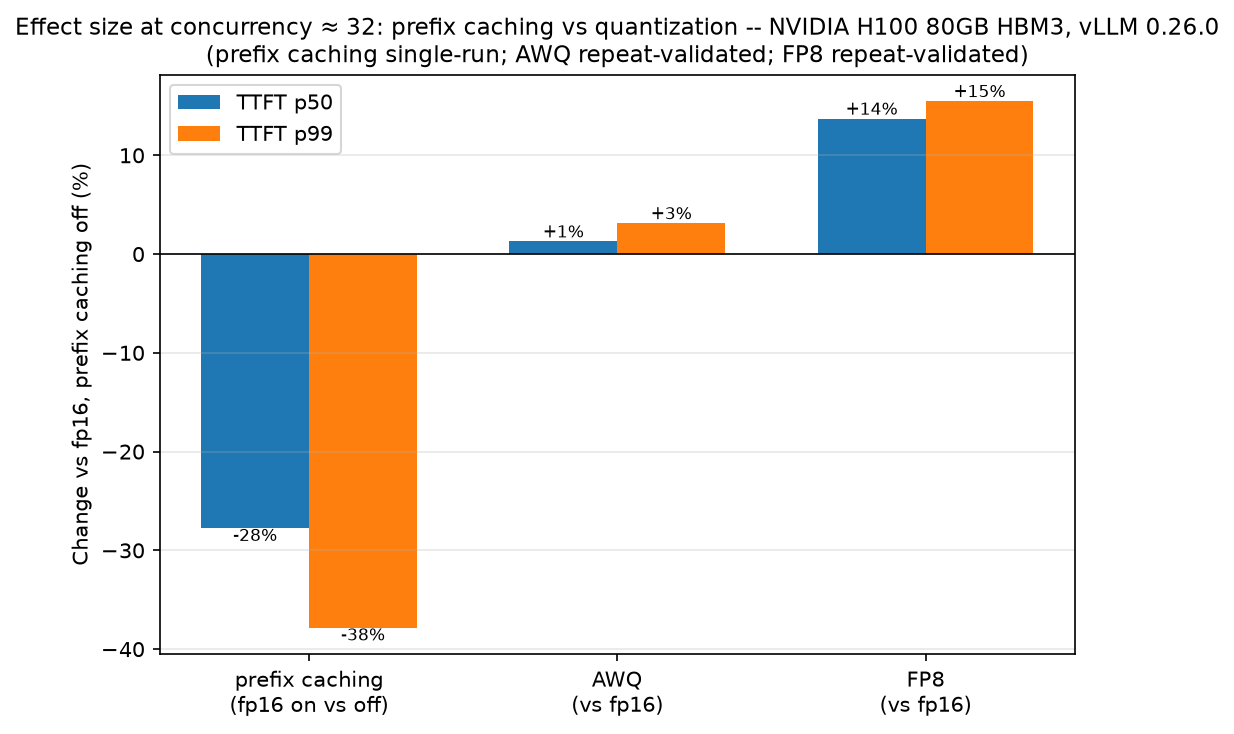
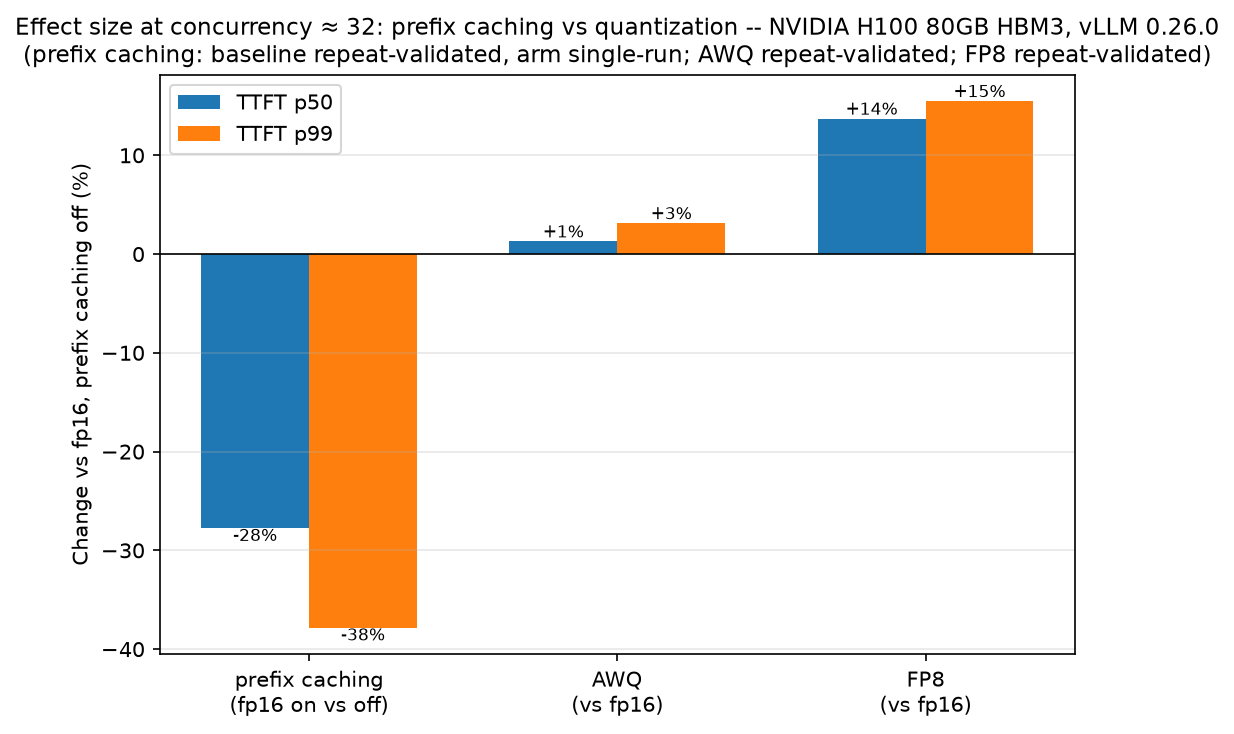
Cleanup: precise plot subtitles, contributor note, drop root .gitkeep (#39)
* fix: classify verify_abort.py's trial dumps in analyze.py

results/h200/verify_abort_trial{0..4}.json are tracked results but
matched no pattern in assert_full_classification(), so make
analyze-h200 raised on the file-classification safety net the Phase 7
audit added. They're a diagnostic (abort-to-slot-free latency, cited
directly in docs/decisions.md), not a load-sweep cell -- add them to
INTENTIONALLY_UNCLASSIFIED_PATTERNS with that reason, same as the
existing calibration/perplexity entries.

* fix: state prefix-caching plot subtitles precisely, regenerate

Both prefix_caching_effect.png and effect_size_comparison.png
subtitles overstated "single-run, not yet repeat-validated" -- the
README's own repeat-validation paragraph says the prefix-caching-off
arm is repeat-validated at c1 and c32 (5 seeds); only the on arm (and
the off arm's c8 cell) is single-run. Read validation status off
cells[...]["runs"] instead of a hardcoded string, so this can't drift
out of sync with which cells actually got repeat runs again. Applies
to both the H100 and H200 versions of both plots -- same script, same
bug in both.

* docs: note the second contributor account in the README

The GitHub contributor list shows kishuxz and kishore-crux -- both
mine, the latter from squash-merge commits whose author GitHub won't
let me correct after the fact (docs/decisions.md, "Squash-merge
authorship"). A reader shouldn't have to go find that explanation to
[…]

Changed region(s): [[0.0, 0.0599, 0.9854, 0.0899]]

diff --git a/scripts/analyze.py b/scripts/analyze.py
@@ -60,6 +60,10 @@ CALIBRATION_RE = re.compile(r"^calibration_[A-Za-z0-9_]+\.json$")
 # by this script -- see scripts/perplexity.py / perplexity_multislice.py
 # and the README's Findings section for those numbers.
 PERPLEXITY_RE = re.compile(r"^perplexity_[A-Za-z0-9_]+\.json$")
+# scripts/verify_abort.py's own trial dumps: confirms abort-to-slot-free
+# latency, not a load-sweep cell -- see docs/decisions.md, "Re-verified
+# on H200."
+VERIFY_ABORT_RE = re.compile(r"^verify_abort_trial\d+\.json$")
 
 # filename arm token -> (canonical arm, prefix caching on/off). AWQ and FP8
 # only ever run with prefix caching off (docs/decisions.md: "prefix caching
@@ -187,6 +191,10 @@ INTENTIONALLY_UNCLASSIFIED_PATTERNS = [
                      "(forced-decoding on a wikitext slice, not a load-sweep "
                      "cell), read directly, not built into this script's "
                      "tables or plots"),
+    (VERIFY_ABORT_RE, "scripts/verify_abort.py's own abort-to-slot-free "
+                       "latency trial, not a load-sweep cell -- cited "
+                       "directly in docs/decisions.md, not built into this "
+                       "script's tables or plots"),
 ]
 
 
@@ -448,6 +456,31 @@ def plot_ttft_vs_arrival_rate(cells, out_path, env_label):
     plt.close(fig)
 
 
+def _validated_concs(cells, arm, prefix_caching, mode="open", barge_in=0.0):
+    """Concurrencies where this (arm, prefix_caching) cell is
+    repeat-validated (cell["runs"] > 1, from repeat_cell() -- 5 seeds),
+    read directly off the cells dict rather than hardcoded, so a plot
+    subtitle naming a validation status can't silently drift out of sync
+    with which concurrencies actually got repeat runs."""
+    return [c for c in CONC_ORDER
+            if (cells.get((arm, prefix_caching, mode, c, barge_in)) or {}).get("runs", 0) > 1]
+
+
+def _prefix_validation_note(cells):
+    off_repeat = _validated_concs(cells, "fp16", False)
+    on_repeat = _validated_concs(cells, "fp16", True)
+
+    def fmt(arm_label, repeat_concs):
+        if not repeat_concs:
+            return f"{arm_label} single-run at every concurrency shown"
+        if len(repeat_concs) == len(CONC_ORDER):
+            return f"{arm_label} repeat-validated at every concurrency shown"
+        concs = "/".join(f"c≈{c}" for c in repeat_concs)
+        return f"{arm_label} repeat-validated at {concs}, single-run elsewhere"
+
+    return f"{fmt('off-arm', off_repeat)}; {fmt('on-arm', on_repeat)}"
+
+
 def plot_prefix_caching_effect(cells, out_path, env_label):
     fig, axes = plt.subplots(1, 2, figsize=(10, 4.5))
     for ax, (label, key) in zip(axes, [("TTFT p50 (ms)", "ttft_p50_ms"), ("TTFT p99 (ms)", "ttft_p99_ms")]):
@@ -472,7 +505,7 @@ def plot_prefix_caching_effect(cells, out_path, env_label):
         ax.legend()
         ax.grid(alpha=0.3, axis="y")
     fig.suptitle(f"Prefix caching on vs off, fp16 -- the largest lever in this sweep -- {env_label}\n"
-                  "(single runs, not yet repeat-validated -- see docs/decisions.md)")
+                  f"({_prefix_validation_note(cells)})")
     fig.tight_layout()
     fig.savefig(out_path, dpi=150, bbox_inches="tight")
     plt.close(fig)
@@ -609,6 +642,23 @@ def plot_itl_abort_windows(results_dir, out_path, env_label):
     plt.close(fig)
 
 
+def _lever_validation_note(name, baseline, cell):
+    """Per-lever validation status read off cells[...]["runs"] for both
+    the fp16 baseline and the compared arm. A hardcoded "prefix caching
+    single-run" string here previously ignored that the fp16-off baseline
+    itself is repeat-validated at c≈32 -- only the fp16-on arm being
+    compared against it is single-run."""
+    baseline_repeat = baseline["runs"] > 1
+    cell_repeat = cell["runs"] > 1
+    if baseline_repeat and cell_repeat:
+        return f"{name} repeat-validated"
+    if not baseline_repeat and not cell_repeat:
+        return f"{name} single-run"
+    validated_side = "baseline" if baseline_repeat else "arm"
+    single_side = "arm" if baseline_repeat else "baseline"
+    return f"{name}: {validated_side} repeat-validated, {single_side} single-run"
+
+
 def plot_effect_size_comparison(cells, out_path, env_label):
     # The other plots each make one comparison in isolation (fp16 on vs
     # off; the arrival-rate curve). Neither puts prefix caching's effect
@@ -619,20 +669,19 @@ def plot_effect_size_comparison(cells, out_path, env_label):
     baseline = cells.get(("fp16", False, "open", 32, 0.0))
     if baseline is None:
         return  # nothing to compare against -- e.g. fp16 wasn't in this sweep
-    # (lever label, cell, validation status) -- status is reported per-lever
-    # in the subtitle below, built only from levers actually present in this
-    # sweep. A hardcoded "AWQ/FP8 repeat-validated" string previously stayed
-    # on the H200 version of this plot after FP8 was excluded (issue #29),
-    # naming a lever the chart no longer shows any data for.
+    # (lever label, cell, short name) -- short name feeds the validation
+    # status computed below, built only from levers actually present in
+    # this sweep. A hardcoded "AWQ/FP8 repeat-validated" string previously
+    # stayed on the H200 version of this plot after FP8 was excluded
+    # (issue #29), naming a lever the chart no longer shows any data for.
     levers = [
-        ("prefix caching\n(fp16 on vs off)", cells.get(("fp16", True, "open", 32, 0.0)),
-         "prefix caching single-run"),
-        ("AWQ\n(vs fp16)", cells.get(("awq", False, "open", 32, 0.0)), "AWQ repeat-validated"),
-        ("FP8\n(vs fp16)", cells.get(("fp8", False, "open", 32, 0.0)), "FP8 repeat-validated"),
+        ("prefix caching\n(fp16 on vs off)", cells.get(("fp16", True, "open", 32, 0.0)), "prefix caching"),
+        ("AWQ\n(vs fp16)", cells.get(("awq", False, "open", 32, 0.0)), "AWQ"),
+        ("FP8\n(vs fp16)", cells.get(("fp8", False, "open", 32, 0.0)), "FP8"),
     ]
     fig, ax = plt.subplots(figsize=(7, 5))
     labels = [l for l, c, s in levers if c]
-    status_notes = [s for l, c, s in levers if c]
+    status_notes = [_lever_validation_note(s, baseline, c) for l, c, s in levers if c]
     p50_deltas = [(c["ttft_p50_ms"][0] - baseline["ttft_p50_ms"][0]) / baseline["ttft_p50_ms"][0] * 100
                   for l, c, s in levers if c]
     p99_deltas = [(c["ttft_p99_ms"][0] - baseline["ttft_p99_ms"][0]) / baseline["ttft_p99_ms"][0] * 100

diff --git a/README.md b/README.md
@@ -1,5 +1,10 @@
 # avatar-inference-bench
 
+*The GitHub contributor list shows two accounts, `kishuxz` and
+`kishore-crux` -- both mine. A handful of squash-merge commits carry the
+older account's identity for reasons GitHub doesn't allow fixing after
+the fact; see "Squash-merge authorship" in `docs/decisions.md`.*
+
 A latency and quality benchmark for a real-time conversational avatar's
 two costliest components: the LLM-serving backend and the
 diffusion-based frame renderer's per-frame cost. Built to show where a
